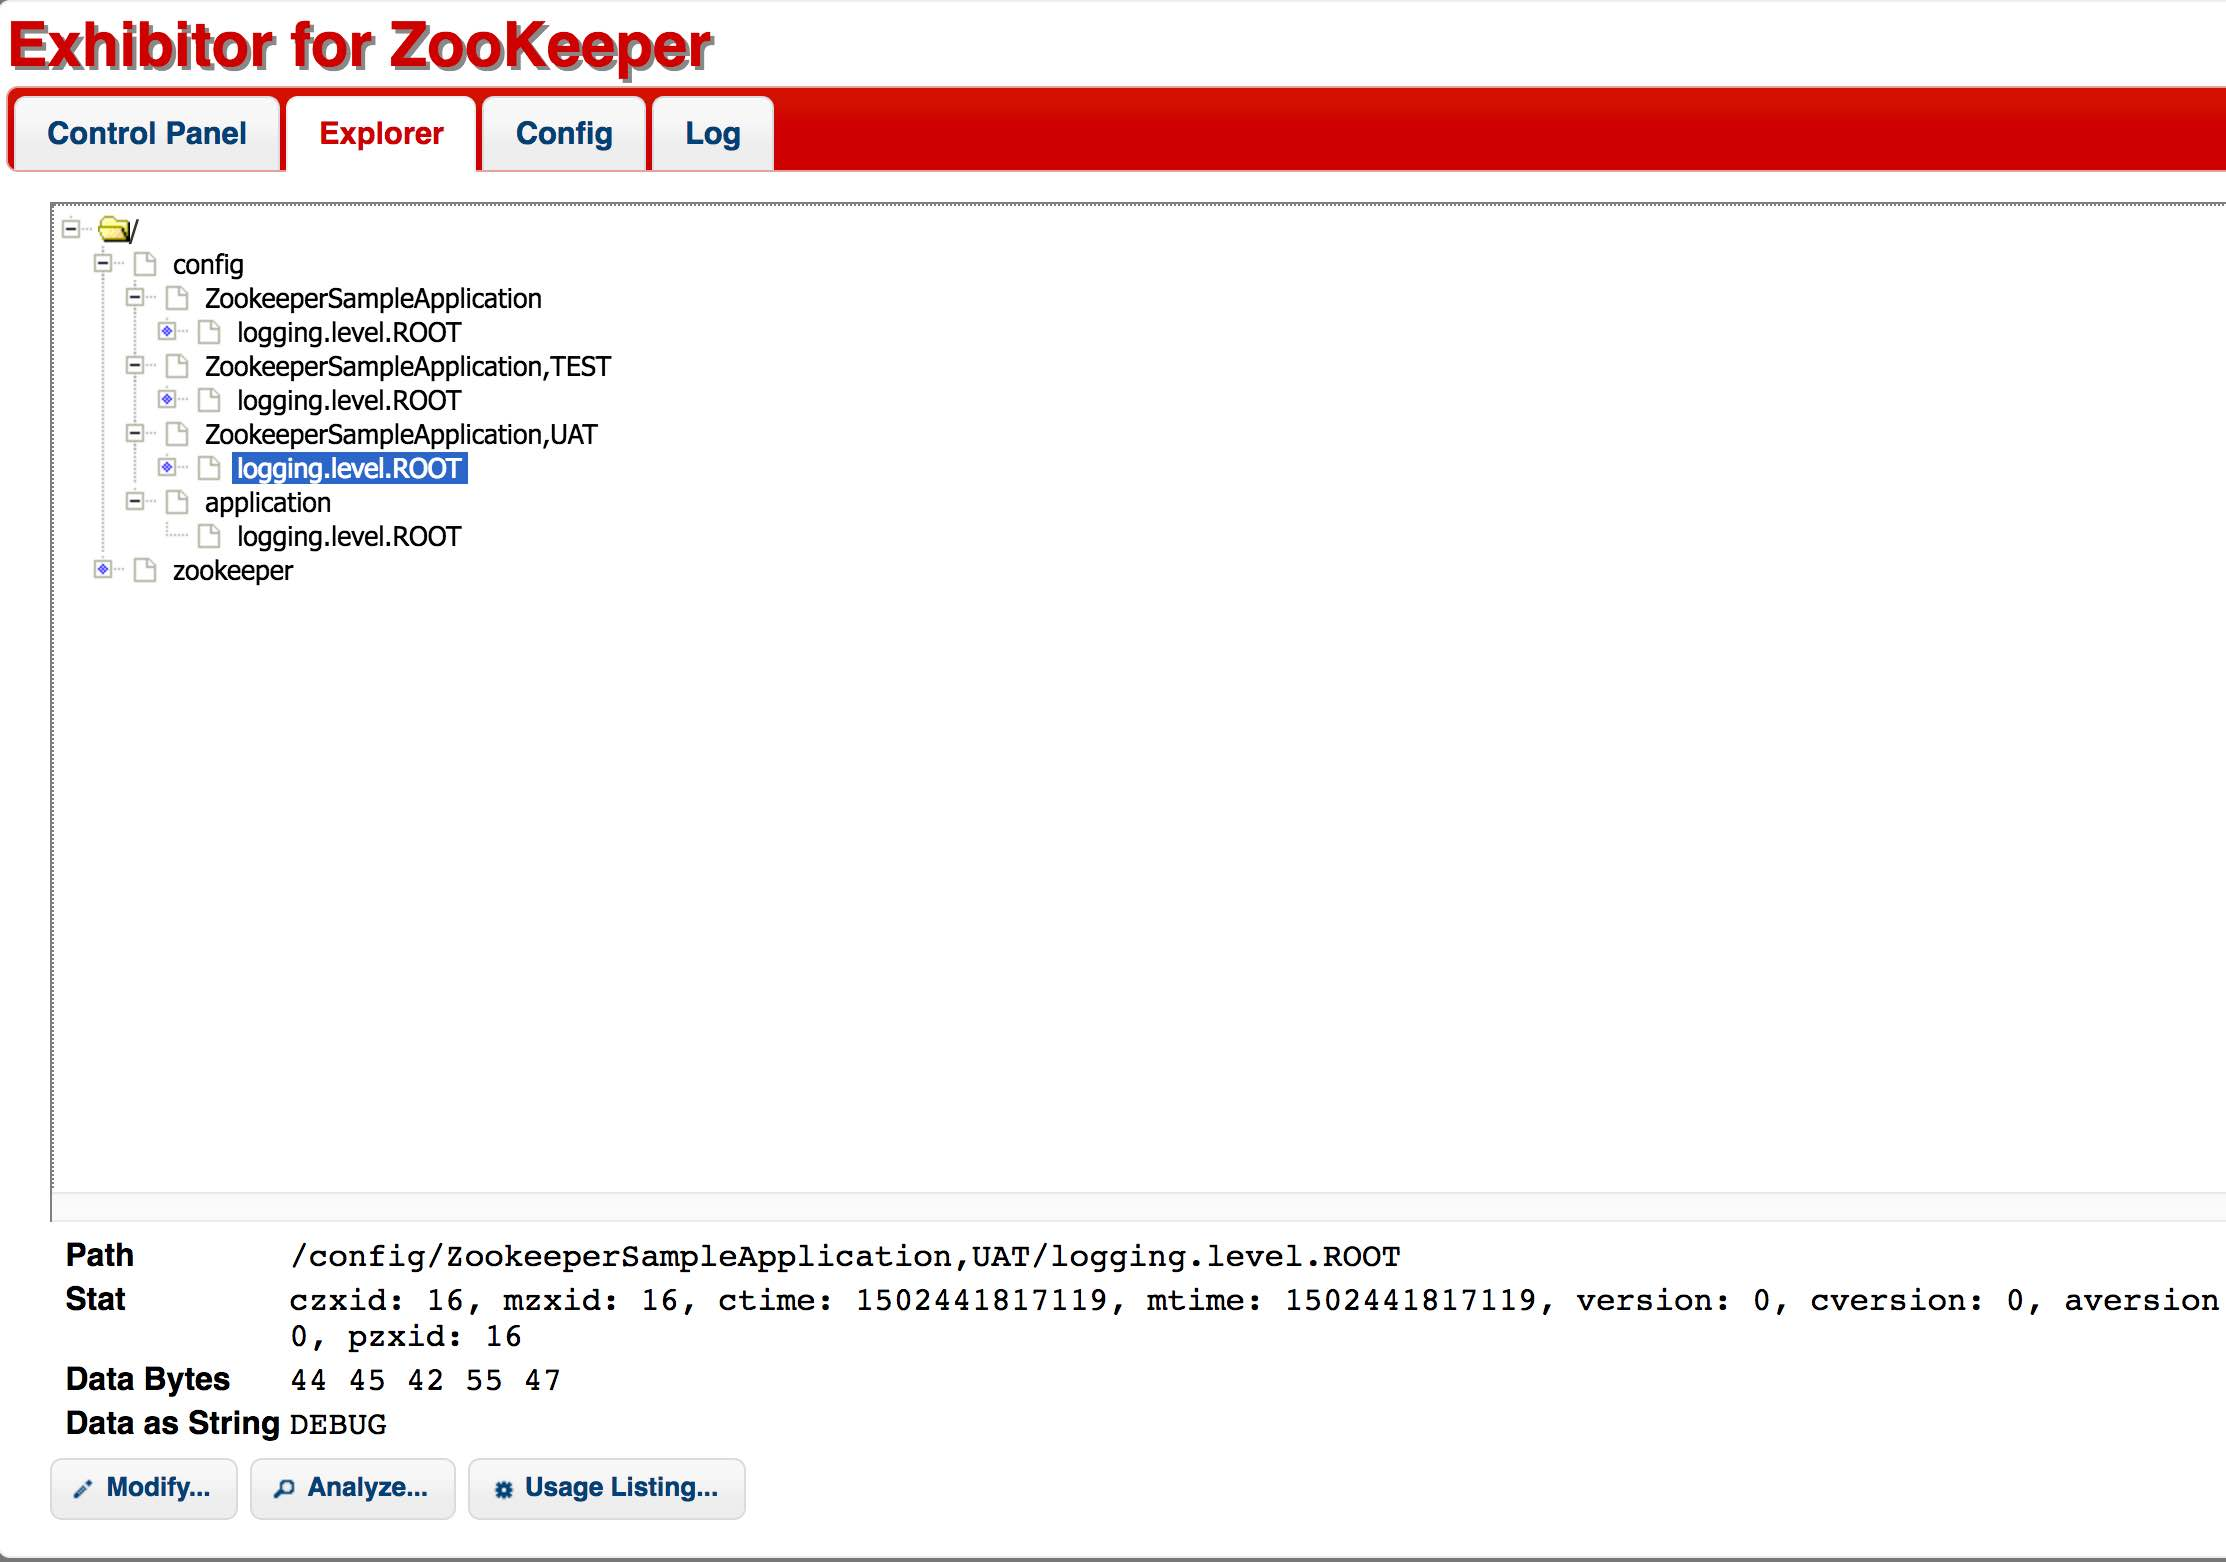
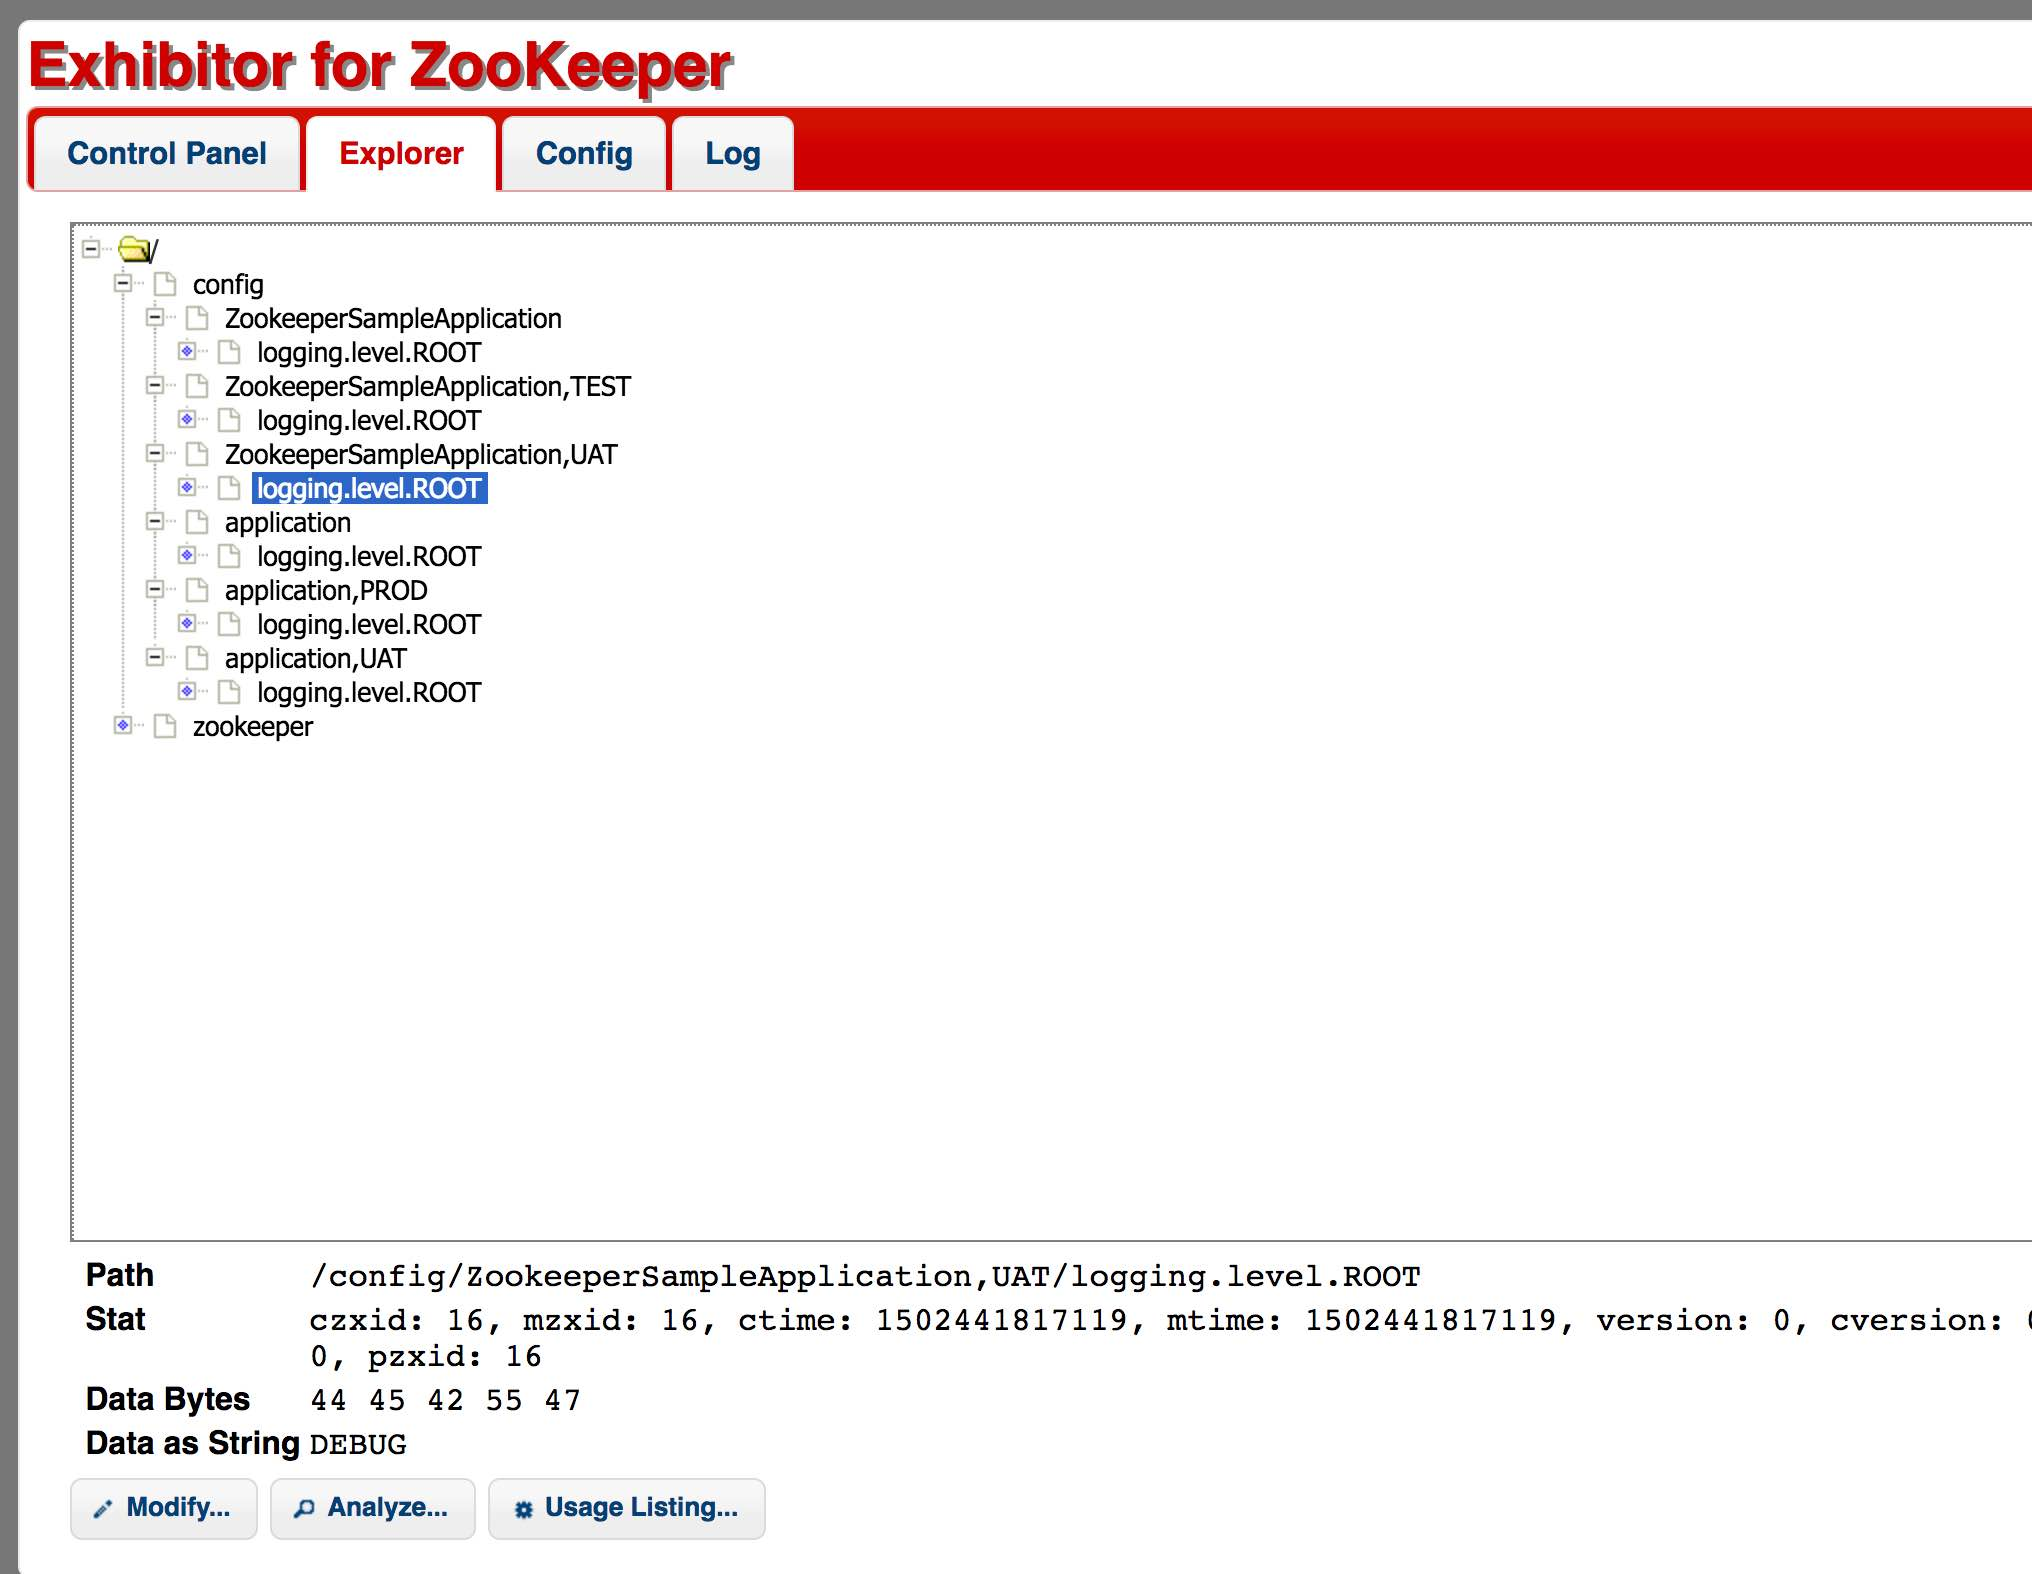
Amended some typos and changed common profile ZNode description

Changed region(s): [[0.0, 0.0, 1.0, 1.0]]

diff --git a/_posts/2017-08-11-spring-cloud-config-series-zookeeper-backend.md b/_posts/2017-08-11-spring-cloud-config-series-zookeeper-backend.md
@@ -6,7 +6,7 @@ title: "Spring Cloud Config Series Part 3: Zookeeper Backend"
 author: Enrique Recarte
 ---
 
-In the next part of the series, we take a look at how we can use Spring Cloud Config with [Zookeeper](https://zookeeper.apache.org/) to manage
+In this part of the series, we take a look at how we can use Spring Cloud Config with [Zookeeper](https://zookeeper.apache.org/) to manage
 our configuration. 
 
 # Introduction
@@ -15,14 +15,12 @@ I've always found it hard to define what Zookeeper is. This is the definition gi
 > ZooKeeper is a centralized service for maintaining configuration information, naming, providing distributed synchronization, and providing group services.
 
 In short, the way I think about Zookeeper, is basically a system that stores information and makes sure it's consistent and synchronized
-across distributed systems. What kind of information you store in it, is up to you. You could store some information which will
+across distributed systems. What kind of information you store in it, is up to you. You could, for example, store some information which will
 help with [Leadership Election](https://zookeeper.apache.org/doc/trunk/recipes.html#sc_leaderElection) or implement [Distributed
-Transactions](https://zookeeper.apache.org/doc/trunk/recipes.html#sc_recipes_twoPhasedCommit).
-
-In our case, we are going to use it to store our application configuration.
+Transactions](https://zookeeper.apache.org/doc/trunk/recipes.html#sc_recipes_twoPhasedCommit). In our case, we are going to use it to store our application configuration.
 
 # Using Zookeeper as the backend
-Zookeepers stores its data in something called [ZNodes](https://zookeeper.apache.org/doc/r3.1.2/zookeeperProgrammers.html#ch_zkDataModel). You can think
+Zookeeper stores its data in something called [ZNodes](https://zookeeper.apache.org/doc/r3.1.2/zookeeperProgrammers.html#ch_zkDataModel). You can think
 of these ZNodes as a filesystem. The way a ZNode is identified is very similar to files as well, so for example, you can have a ZNode
 identified by `/config/ZookeeperSampleApplication/server.port` which can contain a value like `8081`. 
 
@@ -43,6 +41,8 @@ then your ZNodes containing configuration (like folders) would look something li
 /config/ZookeeperSampleApplication,PROD/
 /config/ZookeeperSampleApplication,UAT/
 /config/ZookeeperSampleApplication/
+/config/application,PROD/
+/config/application,UAT/
 /config/application/
 ```
 
@@ -55,21 +55,19 @@ property.
 that specific profile. This is equivalent to the `{application-name}-{profile}.properties` file in the Git solution. By default, 
 you separate the profile with a comma, though you can change this by setting `spring.cloud.zookeeper.config.profile-separator`. For
 example, if you set it to `-`, then your ZNode would be `/config/ZookeeperSampleApplication-UAT`.
-- Finally, `/config/application` contains the configuration that applies to all applications. This ZNode is also configurable by setting
+- The `/config/application` ZNode contains the configuration that applies to all applications. This ZNode is also configurable by setting
 the property `spring.cloud.zookeeper.config.defaultContext`.
-- The one thing that is not possible compared to the Git solution is that you can't have configuration that applies
-to all applications for one profile, so for example if you wanted to declare the global URI for some service and you always want it to be the
-same for all applications in the UAT environment, then you couldn't just declare it in one ZNode, while you could
-declare it in a `application-UAT.properties` file in Git.
+- Finally, if you want to configure something for all applications for a given profile, for example, the logging level for all applications in the
+UAT environment, then you should define the properties under the `/config/application,{profile}` ZNode.
 
-To be more specific, let us look at a more concrete example. If you wanted to define the logging level (confgured in Spring
+To be more specific, let us look at a more concrete example. If you wanted to define the logging level (configured in Spring
 Boot by setting the property `logging.level.ROOT`) to be different per environment for your application, as well
 as defining defaults for both your application (when the profile is not matched) and any other application, your ZNode tree would look like this:
 
 ![Exhibitor ZNode Tree]({{ site.url }}/img/exhibitor-example.jpg)
 
 You can see that each of the ZNodes containing properties has a property `logging.level.ROOT` defined, and for the selected ZNode,
-which configures the UAT profile, the value is `DEBUG` (look at the "Data as String" field)
+which configures the UAT profile for our application, the value is `DEBUG` (look at the "Data as String" field)
 
 ## Architecture Overview
 The Architecture for this setup is a bit simplified compared to the one we saw in the [previous post]({% post_url 2017-08-04-spring-cloud-config-series-git-backend %}) for the Git setup. 
@@ -127,8 +125,8 @@ already uses Zookeeper.
 
 Having said that, I think Zookeeper has a few drawbacks as a configuration management system:
 
-- It's quite a complex system. I've read quite a bit of its documentation, and I still don't have a very clear idea of what it is. If you haven't used
-it yet, I think you should make sure someone in your team or company knows it quite well.
+- It's quite a complex system. I've read quite a bit of its documentation, and I still don't have a very clear idea of what it is and how it works internally. If you haven't used
+it before, I think you should make sure someone in your team or company knows it quite well.
 - It does not have a User Interface by default. It does have some command line utilities, but managing all your configuration in Zookeeper without a
 proper User Interface can be quite painful. There are some UIs around, like [Exhibitor](https://github.com/soabase/exhibitor/wiki) shown in the
 previous example, [zkui](https://github.com/echoma/zkui) or [zk-web](https://github.com/qiuxiafei/zk-web).
